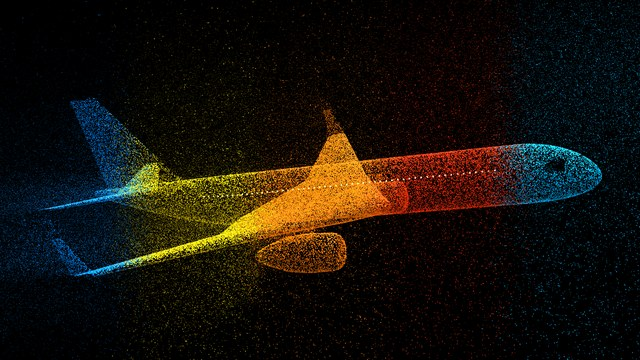
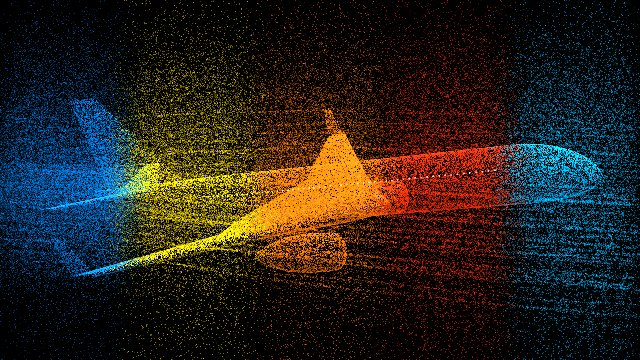
feat: add aeroplane WebGL artwork for world clock visualization

diff --git a/world-clock/planeArt.js b/world-clock/planeArt.js
@@ -16,6 +16,12 @@
  * Everything in the air moves at the speed of the wind in the band it's passing
  * through, so a particle blown into a calmer band slows down as it crosses.
  *
+ * That air obeys the aircraft's aerodynamics, worked out from the shape below
+ * for a cruising lift coefficient: it meets the aircraft at its angle of attack,
+ * parts around the body and wings, is turned by the lift the wings make, and
+ * rolls up into a vortex off each wingtip. Fine lines of smoke, as in a wind
+ * tunnel, trace the way it goes.
+ *
  * `getBands` returns one { tempC, windKph } per band, or nothing for a band
  * whose weather hasn't arrived yet. Read from CSS on the canvas: --art-rows
  * (1 when the bands are stacked as rows, as on phones).
@@ -35,7 +41,8 @@ const SPEED_PER_KPH = 0.004;
 const TOP_SPEED = 0.34;
 const SURFACE_PARTICLES = 240000;
 const CONTRAIL_PARTICLES = 40000;
-const AIR_PARTICLES = 170000;
+const AIR_PARTICLES = 140000;
+const SMOKE_PARTICLES = 30000;
 const FLOATS = 9; // per particle: position 3, normal 3, randoms 2, kind 1
 const KIND = { surface: 0, light: 1, contrail: 2, air: 3 };
 
@@ -58,6 +65,32 @@ const NOSE_START = 0.72;
 const TAIL_START = -0.3;
 const ENGINE_Y = -0.125;
 const ENGINE_Z = 0.34;
+const WING = [
+  { x: 0.27, y: -0.07, z: 0, c: 0.62 },
+  { x: 0.2, y: -0.062, z: 0.11, c: 0.52 },
+  { x: 0.04, y: -0.03, z: 0.37, c: 0.27 },
+  { x: -0.28, y: 0.045, z: 0.98, c: 0.085 },
+];
+const WING_THICKNESS = 0.13;
+
+// The lift the wing makes, and what that does to the air. For an elliptical
+// lift distribution, Kutta–Joukowski gives the circulation at the wing's root
+// from its area and span; the wake's vortices take up that same circulation,
+// and end up pi/4 of the span apart.
+const LIFT_COEFFICIENT = 0.5;
+const WING_SPAN = 2 * WING[3].z;
+const WING_AREA = 2 * WING.slice(1).reduce((sum, s, i) => sum + ((s.z - WING[i].z) * (s.c + WING[i].c)) / 2, 0);
+const CIRCULATION = (2 * LIFT_COEFFICIENT * WING_AREA) / (Math.PI * WING_SPAN); // per unit of air speed
+const VORTEX_SPACING = (Math.PI / 4) * WING_SPAN;
+
+// Lines of smoke let into the air ahead of the aircraft, as { y, z }: a rake up
+// the middle, over the body, and others either side, the outermost off the tips.
+const SMOKE_LINES = [
+  ...[-0.3, -0.21, -0.14, -0.08, 0.05, 0.11, 0.18, 0.27].map((y) => ({ y, z: 0.02 })),
+  ...[-0.16, -0.09, -0.02, 0.05, 0.12, 0.2].flatMap((y) => [0.42, 0.72].map((z) => ({ y, z }))),
+  ...[-0.02, 0.05, 0.1, 0.16].flatMap((y) => [0.92, 1.0].map((z) => ({ y, z }))),
+  ...[-0.05, 0.1, 0.2].flatMap((y) => [-0.5, -0.95].map((z) => ({ y, z }))),
+];
 
 function bodyRadius(x) {
   if (x > NOSE_START) {
@@ -145,12 +178,6 @@ function aircraftSurfaces() {
     return Array.from({ length: segments }, (_, j) => bodyPoint(x, (2 * Math.PI * j) / segments));
   });
 
-  const wing = [
-    { x: 0.27, y: -0.07, z: 0, c: 0.62 },
-    { x: 0.2, y: -0.062, z: 0.11, c: 0.52 },
-    { x: 0.04, y: -0.03, z: 0.37, c: 0.27 },
-    { x: -0.28, y: 0.045, z: 0.98, c: 0.085 },
-  ];
   const winglet = [
     { x: -0.28, y: 0.045, z: 0.98, c: 0.085 },
     { x: -0.345, y: 0.17, z: 1.01, c: 0.036 },
@@ -181,8 +208,8 @@ function aircraftSurfaces() {
 
   return [
     skin(body),
-    skin(airfoilRings(wing, 1, 0.13)),
-    skin(airfoilRings(mirrored(wing), 1, 0.13)),
+    skin(airfoilRings(WING, 1, WING_THICKNESS)),
+    skin(airfoilRings(mirrored(WING), 1, WING_THICKNESS)),
     skin(airfoilRings(winglet, 2, 0.1)),
     skin(airfoilRings(mirrored(winglet), 2, 0.1)),
     skin(airfoilRings(stabilizer, 1, 0.1)),
@@ -202,14 +229,6 @@ const EMITTERS = [
   { at: [-0.36, 0.17, 1.01], spread: 0.016, share: 0.08 },
   { at: [-0.36, 0.17, -1.01], spread: 0.016, share: 0.08 },
 ];
-
-// The cockpit's windscreen, left dark.
-function inWindscreen([x, y, z]) {
-  if (x < 0.84 || x > 0.9) return false;
-  const up = (y - bodyCenter(x)) / bodyRadius(x);
-  // Raked back, and split down the middle.
-  return up > 0.3 && up < 0.72 - (0.9 - x) * 3 && Math.abs(z) > 0.006;
-}
 
 // Every particle, in one interleaved array. Built once and kept, as it never changes.
 let cloud;
@@ -240,7 +259,7 @@ function buildCloud() {
   }
 
   const perLight = 8;
-  const particles = SURFACE_PARTICLES + lights.length * perLight + CONTRAIL_PARTICLES + AIR_PARTICLES;
+  const particles = SURFACE_PARTICLES + lights.length * perLight + CONTRAIL_PARTICLES + AIR_PARTICLES + SMOKE_PARTICLES;
   const data = new Float32Array(particles * FLOATS);
   let count = 0;
   const put = (position, normal, kind) => {
@@ -254,7 +273,7 @@ function buildCloud() {
     let v = Math.random();
     if (u + v > 1) [u, v] = [1 - u, 1 - v];
     const point = a.map((p, i) => p + (b[i] - p) * u + (c[i] - p) * v);
-    if (!inWindscreen(point)) put(point, normal, KIND.surface);
+    put(point, normal, KIND.surface);
   }
 
   for (const { point, normal, size } of lights) {
@@ -277,9 +296,17 @@ function buildCloud() {
     put([0, height * 0.33, 1.2 - Math.random() * 4.6], [0, 0, 0], KIND.air);
   }
 
+  // The smoke rides the air, just kept to its lines.
+  for (let i = 0; i < SMOKE_PARTICLES; i++) {
+    const { y, z } = SMOKE_LINES[i % SMOKE_LINES.length];
+    put([0, y + (Math.random() - 0.5) * 0.006, z + (Math.random() - 0.5) * 0.006], [0, 0, 0], KIND.air);
+  }
+
   cloud = { data: data.subarray(0, count * FLOATS), count };
   return cloud;
 }
+
+const WING_GLSL = WING.map(({ x, y, c }) => `vec3(${x.toFixed(3)}, ${y.toFixed(3)}, ${c.toFixed(3)})`);
 
 const VERTEX = /* glsl */ `
   attribute vec3 aPosition;
@@ -303,6 +330,13 @@ const VERTEX = /* glsl */ `
 
   const vec3 LIGHT = vec3(0.32, 0.86, 0.4);
   const float SEAM = 0.055; // how far the bands' particles mix past an edge, in screens
+  const float PI = 3.14159265;
+  const float CIRCULATION = ${CIRCULATION.toFixed(4)}; // per unit of air speed
+  const float WING_TIP = ${WING[3].z.toFixed(2)};
+  const float TRAILING_EDGE = ${(WING[3].x - WING[3].c).toFixed(3)};
+  const float VORTEX_Z = ${(VORTEX_SPACING / 2).toFixed(3)}; // once the wake has rolled up
+  const float VORTEX_Y = 0.1; // where each one leaves the wingtip
+  const float VORTEX_CORE = 0.06;
 
   vec4 project(vec3 world) {
     vec4 clip = uViewProjection * vec4(world, 1.0);
@@ -355,12 +389,83 @@ const VERTEX = /* glsl */ `
 
   // The x that puts a point of this height and depth at \`along\` on the screen.
   float xAt(vec3 point, float along) {
-    vec4 a = project(uModel * vec3(0.0, point.yz));
-    vec4 b = project(uModel * vec3(1.0, point.yz));
+    vec4 a = project(vec3(0.0, point.yz));
+    vec4 b = project(vec3(1.0, point.yz));
     float target = uRows > 0.5 ? 1.0 - 2.0 * along : 2.0 * along - 1.0;
     float from = uRows > 0.5 ? a.y : a.x;
     float to = uRows > 0.5 ? b.y : b.x;
     return (target * a.w - from) / (to - from - target * (b.w - a.w));
+  }
+
+  // The wing's leading edge x, height and chord, s out from the middle.
+  vec3 wingAt(float s) {
+    if (s < ${WING[1].z.toFixed(2)}) return mix(${WING_GLSL[0]}, ${WING_GLSL[1]}, s / ${WING[1].z.toFixed(2)});
+    if (s < ${WING[2].z.toFixed(2)}) return mix(${WING_GLSL[1]}, ${WING_GLSL[2]}, (s - ${WING[1].z.toFixed(2)}) / ${(WING[2].z - WING[1].z).toFixed(2)});
+    return mix(${WING_GLSL[2]}, ${WING_GLSL[3]}, min((s - ${WING[2].z.toFixed(2)}) / ${(WING[3].z - WING[2].z).toFixed(2)}, 1.0));
+  }
+
+  float bodyRadiusAt(float x) {
+    if (abs(x) >= 1.0) return 0.0;
+    if (x > ${NOSE_START.toFixed(2)}) {
+      float k = (x - ${NOSE_START.toFixed(2)}) / ${(1 - NOSE_START).toFixed(2)};
+      return ${BODY_RADIUS.toFixed(2)} * pow(max(1.0 - pow(k, 2.3), 0.0), 0.55);
+    }
+    if (x < ${TAIL_START.toFixed(2)}) {
+      return ${BODY_RADIUS.toFixed(2)} * (1.0 - 0.9 * pow((${TAIL_START.toFixed(2)} - x) / ${(TAIL_START + 1).toFixed(2)}, 1.5));
+    }
+    return ${BODY_RADIUS.toFixed(2)};
+  }
+
+  // Behind the wing, a point in the aircraft's frame is turned about the vortex
+  // trailing from each tip, by Lamb–Oseen's swirl for how far it has come. The
+  // two together are the wake's downwash: down between them, up outside them.
+  // \`amount\` eases this in for what sets out from the aircraft itself.
+  vec3 inWake(vec3 point, float amount) {
+    float behind = max(TRAILING_EDGE - point.x, 0.0) * amount;
+    if (behind <= 0.0) return point;
+    float rolled = smoothstep(0.0, 2.5, behind);
+    for (int i = 0; i < 2; i++) {
+      float side = i == 0 ? 1.0 : -1.0;
+      vec2 start = vec2(side * WING_TIP, VORTEX_Y);
+      vec2 core = vec2(side * mix(WING_TIP, VORTEX_Z, rolled), VORTEX_Y - behind * CIRCULATION / (2.0 * VORTEX_Z * PI));
+      vec2 from = point.zy - start;
+      float r2 = dot(from, from) + 0.00001;
+      float angle = side * behind * CIRCULATION / (2.0 * PI * r2) * (1.0 - exp(-r2 / (VORTEX_CORE * VORTEX_CORE)));
+      vec2 turned = vec2(from.x * cos(angle) - from.y * sin(angle), from.x * sin(angle) + from.y * cos(angle));
+      // What's caught near the vortex goes where it goes.
+      point.zy += turned - from + (core - start) * exp(-r2 / 0.05);
+    }
+    return point;
+  }
+
+  // Where the free stream's straight line through a point is bent to.
+  vec3 streamlined(vec3 world) {
+    vec3 point = inWake(world * uModel, 1.0); // the transpose, so into the aircraft's frame
+
+    // The wing's lift: the circulation round it lifts the air ahead of it and over
+    // it, to a stream function for a vortex at its quarter chord.
+    float s = abs(point.z);
+    vec3 wing = wingAt(s);
+    float chord = wing.z * (1.0 - smoothstep(WING_TIP - 0.03, WING_TIP + 0.03, s));
+    vec2 toWing = vec2(point.x - wing.x + chord * 0.25, point.y - wing.y);
+    float lift = CIRCULATION * sqrt(max(1.0 - s * s / (WING_TIP * WING_TIP), 0.0)) / (2.0 * PI);
+    float above = point.y - wing.y;
+    point.y += lift * max(log(0.6 / max(length(toWing), 0.03)), 0.0);
+
+    // Air can't pass through either the wing or the body, and a thin body's
+    // stream tubes keep their area, so what reaches one parts around it.
+    float across = (wing.x - point.x) / max(chord, 0.001);
+    if (across > 0.0 && across < 1.0) {
+      float thick = ${(WING_THICKNESS / 2).toFixed(3)} * chord * 4.0 * across * (1.0 - across) * 1.15;
+      point.y = wing.y + sign(above) * sqrt(above * above + thick * thick) + point.y - (wing.y + above);
+    }
+    float radius = bodyRadiusAt(point.x) * 1.08;
+    float axis = point.x < ${TAIL_START.toFixed(2)} ? (${BODY_RADIUS.toFixed(2)} - bodyRadiusAt(point.x)) * 0.92 : 0.0;
+    vec2 off = vec2(point.y - axis, point.z);
+    float r = length(off) + 0.00001;
+    point.yz = vec2(axis, 0.0) + off / r * sqrt(r * r + radius * radius);
+
+    return uModel * point;
   }
 
   void main() {
@@ -377,14 +482,16 @@ const VERTEX = /* glsl */ `
       ? fract(aRand.x + uPhases[home] * (0.85 + 0.3 * aRand.y))
       : fract((contrail ? aRand.x : aRand.x * 37.0) + uTime * rate);
 
-    vec3 position = aPosition;
-    if (contrail) position.x = xAt(position, carried(alongOf(project(uModel * position)), life / rate, flow));
+    // The stream runs level, whichever way the aircraft is pitched: that's its
+    // angle of attack. The air's own positions are in the world already.
+    vec3 world = air ? aPosition : uModel * aPosition;
+    if (contrail) world.x = xAt(world, carried(alongOf(project(world)), life / rate, flow));
     if (air) {
       float crossed = flow > 0.0 ? life : 1.0 - life;
-      position.x = xAt(position, (float(home) + crossed) / uCount - seamOffset());
+      world.x = xAt(world, (float(home) + crossed) / uCount - seamOffset());
     }
     // The wind that picks at a particle is that of the band it's in.
-    float wind = uWinds[air ? home : bandAt(project(uModel * position))];
+    float wind = uWinds[air ? home : bandAt(project(world))];
 
     vec3 normal = uModel * aNormal;
     float alpha;
@@ -394,18 +501,20 @@ const VERTEX = /* glsl */ `
     if (air) {
       // Fuller ahead of the wings, where nothing is shed to fill the screen,
       // and gone before it wraps around.
-      alpha = (0.5 + 0.3 * wind) * mix(0.32, 1.0, smoothstep(-1.1, 0.7, position.x))
+      alpha = (0.5 + 0.3 * wind) * mix(0.7, 1.0, smoothstep(-1.1, 0.7, world.x))
         * smoothstep(0.0, 0.08, life) * (1.0 - smoothstep(0.92, 1.0, life));
       light = 0.62 + 0.3 * aRand.y;
+      world = streamlined(world);
     } else if (contrail) {
-      // The trail fans out as it ages, wider in a stronger wind.
-      position += aNormal * (1.0 + (10.0 + 34.0 * wind) * sqrt(life));
-      position.y -= life * life * 0.3;
+      // The trail fans out as it ages, wider in a stronger wind, and the wake
+      // takes it from there.
+      world += normal * (1.0 + (10.0 + 34.0 * wind) * sqrt(life));
+      world = uModel * inWake(world * uModel, smoothstep(0.0, 0.03, life));
       alpha = smoothstep(0.0, 0.015, life) * pow(1.0 - life, 2.2) * 0.62;
       light = 0.72;
       size *= 1.0 + 0.5 * life;
     } else {
-      vec3 toEye = normalize(uEye - uModel * position);
+      vec3 toEye = normalize(uEye - world);
       float facing = dot(normal, toEye);
       float sun = max(dot(normal, normalize(LIGHT)), 0.0);
       float rim = pow(1.0 - clamp(facing, 0.0, 1.0), 3.0);
@@ -417,11 +526,12 @@ const VERTEX = /* glsl */ `
       if (aKind < 0.5) {
         float taper = mix(0.85, 1.5, smoothstep(0.9, -1.0, aPosition.x));
         if (aRand.y < (0.07 + 0.62 * wind) * taper) {
-          float start = position.x;
-          position.x = xAt(position, carried(alongOf(project(uModel * position)), life / rate, flow));
-          float flight = start - position.x;
-          position.y += (sin(life * 7.0 + aRand.x * 40.0) * 0.06 + 0.02) * flight;
-          position.z += sin(life * 5.0 + aRand.x * 90.0) * 0.07 * flight;
+          float start = world.x;
+          world.x = xAt(world, carried(alongOf(project(world)), life / rate, flow));
+          float flight = start - world.x;
+          world.y += (sin(life * 7.0 + aRand.x * 40.0) * 0.06 + 0.02) * flight;
+          world.z += sin(life * 5.0 + aRand.x * 90.0) * 0.07 * flight;
+          world = uModel * inWake(world * uModel, smoothstep(0.0, 0.15, life));
           alpha = mix(alpha, 0.6, smoothstep(0.0, 0.1, life)) * (1.0 - life);
         }
       } else {
@@ -432,7 +542,7 @@ const VERTEX = /* glsl */ `
       }
     }
 
-    gl_Position = project(uModel * position);
+    gl_Position = project(world);
 
     // The color of the band it's in now, wherever it came from, carried by the
     // light and washing out toward white at its brightest.
